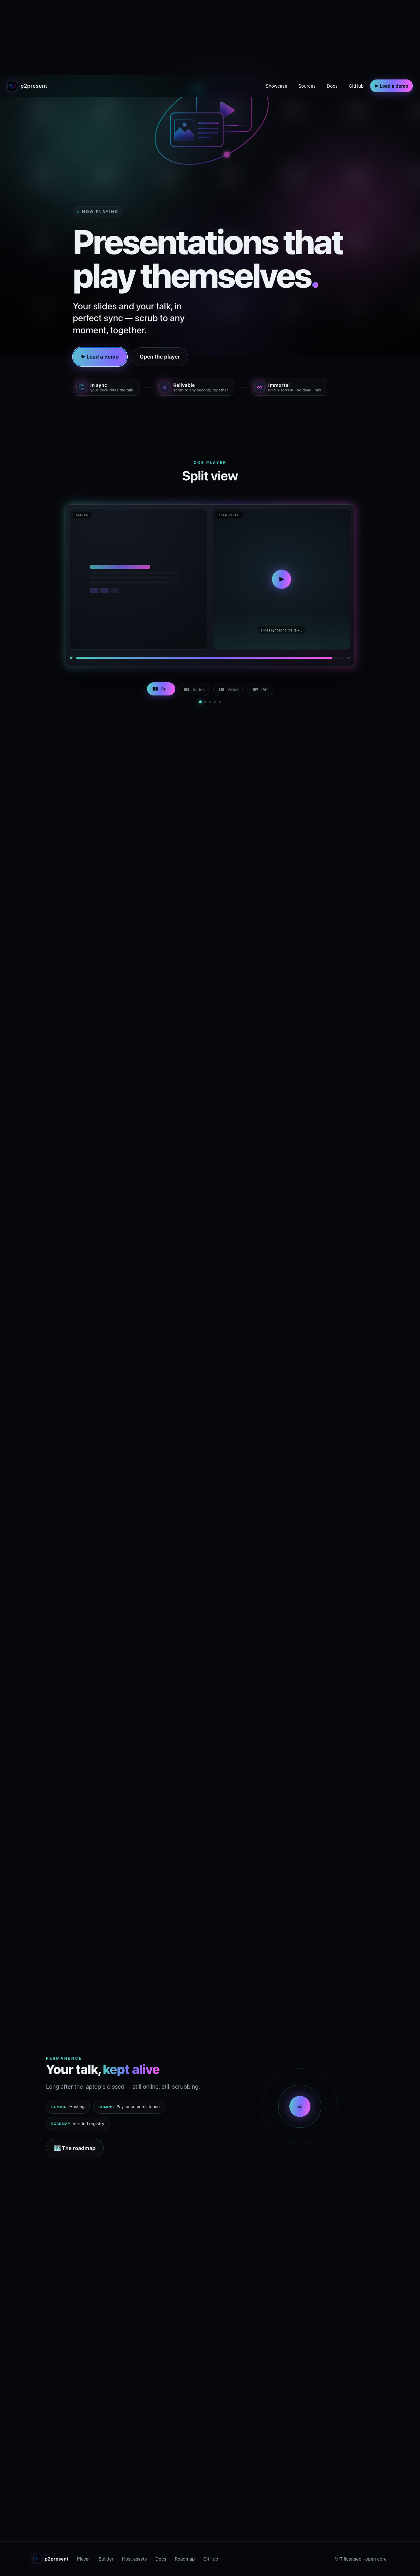
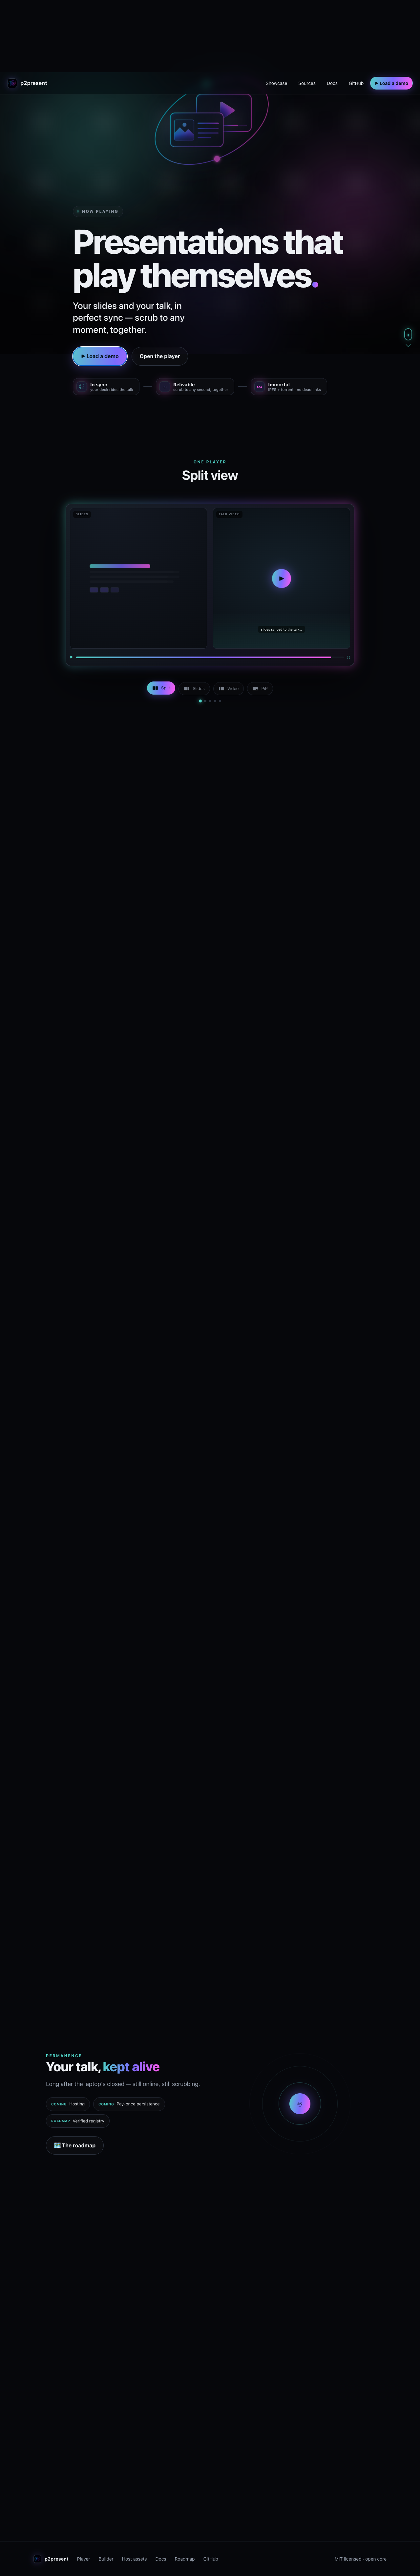
feat(home): persistent scroll cue, refined source flow + "host anywhere"
- Scroll cue stays pinned as a persistent hint until the reader is ~1 viewport
  from the bottom, then retires (was hiding after the first 80px).
- "Plays from any source": the player now shrinks much harder and the five
  source cards sit in a balanced arc clearly OUTSIDE it (both sides + below),
  drifting gently toward it as a clean comet of light streams down each wire —
  no more cards overlapping the player.
- "Fork it. Host it. Keep it." reworked to mean it: one built site fans out to
  any host — GitHub Pages, IPFS, Arweave, your own server — each lighting up on
  its own. Packets are thin streaks, not smeared blobs.

Claude-Session: https://claude.ai/code/session_01ESVaA3GnESeA53zvUDRn5D

diff --git a/docs/home.css b/docs/home.css
@@ -401,8 +401,8 @@ footer.site .brand .logo { width: 24px; height: 24px; border-radius: 7px; }
   opacity: 0; transition: opacity .35s var(--ease);
 }
 .showcase-sticky.sourcing .sources-field { opacity: calc(.5 + (.5 * var(--flow))); }
-/* shrink the player to make room for the incoming sources */
-.showcase-sticky.sourcing .morph { transform: translateY(calc(-10vh * var(--flow))) scale(calc(1 - (.24 * var(--flow)))); }
+/* shrink the player hard so the sources have clear room to flow into it */
+.showcase-sticky.sourcing .morph { transform: translateY(calc(-5vh * var(--flow))) scale(calc(1 - (.5 * var(--flow)))); }
 /* fade the layout legend out of the way at the source climax */
 .showcase-sticky.sourcing .morph-caps { opacity: calc(1 - (.8 * var(--flow))); transition: opacity .5s var(--ease); }
 
@@ -416,10 +416,11 @@ footer.site .brand .logo { width: 24px; height: 24px; border-radius: 7px; }
 /* dasharray "5 100" over pathLength=100 leaves a single short segment that the
    keyframe walks from the chip down to the player centre — one clean packet. */
 .sources-field .streams .pulses path {
-  stroke: url(#streamGrad); stroke-width: 1.5; stroke-linecap: round;
-  stroke-dasharray: 5 100; opacity: calc(.1 + (.9 * var(--flow)));
-  filter: drop-shadow(0 0 calc(2px + (7px * var(--flow))) rgba(124,107,255,.85));
-  animation: streamPulse calc(2.4s - (1s * var(--flow))) linear infinite;
+  /* a short bright streak = a clean comet of light gliding along the wire */
+  stroke: url(#streamGrad); stroke-width: 1.6; stroke-linecap: round;
+  stroke-dasharray: 2.5 100; opacity: calc(.15 + (.85 * var(--flow)));
+  filter: drop-shadow(0 0 calc(3px + (6px * var(--flow))) rgba(124,107,255,.9));
+  animation: streamPulse calc(2.6s - (1s * var(--flow))) linear infinite;
 }
 .sources-field .streams .pulses path:nth-child(2){ animation-delay: -.55s; }
 .sources-field .streams .pulses path:nth-child(3){ animation-delay: -1.05s; }
@@ -431,9 +432,13 @@ footer.site .brand .logo { width: 24px; height: 24px; border-radius: 7px; }
    explanation, then (as --flow grows with scroll) the explanation collapses and
    the card rises up its wire toward the player: "every source streams in". */
 .src-node {
-  position: absolute; left: var(--x); top: var(--y);
-  /* rise toward the player's lower edge + tighten as the flow intensifies */
-  transform: translate(-50%, calc(-50% - (13vh * var(--flow)))) scale(calc(1 - (.12 * var(--flow))));
+  /* sit clearly OUTSIDE the player at the start (--x/--y), then drift toward a
+     dock point at the player's perimeter (--dx/--dy) as the flow intensifies —
+     "every source streams into the box" — never overlapping its centre. */
+  position: absolute;
+  left: calc(var(--x) + (var(--dx) - var(--x)) * var(--flow));
+  top: calc(var(--y) + (var(--dy) - var(--y)) * var(--flow));
+  transform: translate(-50%, -50%) scale(calc(1 - (.06 * var(--flow))));
   display: inline-flex; align-items: center; gap: 10px;
   padding: 8px 14px 8px 9px; border-radius: 14px;
   background: linear-gradient(150deg, rgba(20,24,32,.94), rgba(9,11,16,.94));
@@ -530,36 +535,38 @@ section { position: relative; padding: clamp(72px, 12vh, 128px) 0; }
 .os .pills { display: flex; gap: 10px; flex-wrap: wrap; margin-top: 22px; }
 .os .pills a { padding: 10px 17px; border: 1px solid var(--line); border-radius: 999px; color: var(--fg); font-size: 14px; transition: border-color .2s, color .2s; }
 .os .pills a:hover { border-color: var(--cyan); color: var(--cyan); text-decoration: none; }
-/* "fork it, host it, keep it": one repo → independent self-hosted copies.
-   A packet runs out each branch from the repo to a copy; the copies then pulse
-   on their own — alive without the origin (the "no lock-in / keep it" point). */
-.fork-viz { position: relative; min-height: 290px; }
+/* "host it anywhere": one static build → any host. A packet runs out each branch
+   from your site to a target (GitHub Pages / IPFS / Arweave / your own box), which
+   then glows on its own — same files, no lock-in. */
+.fork-viz { position: relative; min-height: 300px; }
 .fork-wires { position: absolute; inset: 0; width: 100%; height: 100%; overflow: visible; }
 .fork-wires path { fill: none; }
 .fork-wires .fwire path { stroke: url(#streamGrad); stroke-width: .5; opacity: .3; }
 .fork-wires .fpulse path {
-  stroke: url(#streamGrad); stroke-width: 1.4; stroke-linecap: round;
-  stroke-dasharray: 6 100; filter: drop-shadow(0 0 5px rgba(124,107,255,.8));
-  animation: forkPulse 2.6s linear infinite;
+  stroke: url(#streamGrad); stroke-width: 1.6; stroke-linecap: round;
+  stroke-dasharray: 2.5 100; filter: drop-shadow(0 0 5px rgba(124,107,255,.85));
+  animation: forkPulse 2.8s linear infinite;
 }
-.fork-wires .fpulse path:nth-child(2) { animation-delay: -.8s; }
-.fork-wires .fpulse path:nth-child(3) { animation-delay: -1.6s; }
-@keyframes forkPulse { from { stroke-dashoffset: 0; } to { stroke-dashoffset: -106; } }
+.fork-wires .fpulse path:nth-child(2) { animation-delay: -.7s; }
+.fork-wires .fpulse path:nth-child(3) { animation-delay: -1.4s; }
+.fork-wires .fpulse path:nth-child(4) { animation-delay: -2.1s; }
+@keyframes forkPulse { from { stroke-dashoffset: 0; } to { stroke-dashoffset: -100.4; } }
 
-/* the source repo */
+/* your built site (the source of every deploy) */
 .fork-viz .origin {
-  position: absolute; left: 9%; top: 50%; transform: translate(-50%, -50%);
-  display: flex; flex-direction: column; align-items: center; gap: 7px; z-index: 3;
+  position: absolute; left: 11%; top: 50%; transform: translate(-50%, -50%);
+  display: flex; flex-direction: column; align-items: center; gap: 8px; z-index: 3;
 }
 .fork-viz .origin .g {
-  display: grid; place-items: center; width: 58px; height: 58px; border-radius: 50%;
-  font-size: 26px; color: #04121a; background: var(--neon);
+  display: grid; place-items: center; width: 60px; height: 60px; border-radius: 50%;
+  color: #04121a; background: var(--neon);
   box-shadow: 0 0 40px rgba(124,107,255,.6); animation: puck 2.8s ease-in-out infinite;
 }
+.fork-viz .origin .g svg { width: 30px; height: 30px; fill: none; stroke: #04121a; stroke-width: 1.8; stroke-linecap: round; stroke-linejoin: round; }
 .fork-viz .origin b, .fork-viz .fork b {
-  font-size: 11px; font-weight: 700; letter-spacing: .05em; text-transform: uppercase; color: var(--muted);
+  font-size: 11px; font-weight: 700; letter-spacing: .05em; text-transform: uppercase; color: var(--muted); white-space: nowrap;
 }
-/* the independent self-hosted copies */
+/* the hosting targets — each lights up on its own */
 .fork-viz .fork {
   position: absolute; left: var(--fx); top: var(--fy); transform: translate(-50%, -50%);
   display: flex; flex-direction: column; align-items: center; gap: 7px; z-index: 2;
@@ -570,8 +577,9 @@ section { position: relative; padding: clamp(72px, 12vh, 128px) 0; }
   border: 1px solid rgba(255,255,255,.16);
   animation: forkAlive 3.4s ease-in-out infinite;
 }
-.fork-viz .fork:nth-of-type(3) .g { animation-delay: -1.1s; }
-.fork-viz .fork:nth-of-type(4) .g { animation-delay: -2.2s; }
+.fork-viz .fork:nth-of-type(3) .g { animation-delay: -.9s; }
+.fork-viz .fork:nth-of-type(4) .g { animation-delay: -1.8s; }
+.fork-viz .fork:nth-of-type(5) .g { animation-delay: -2.7s; }
 /* each copy keeps glowing on its own — outlives the origin */
 @keyframes forkAlive {
   0%,100% { box-shadow: 0 0 16px rgba(79,209,197,.3); transform: translateY(0); }
@@ -658,18 +666,18 @@ footer.site .spacer { flex: 1; }
   .beats .flow { display: none; }
   .beat { width: 100%; padding: 10px 14px 10px 11px; }
   .scroll-cue { right: 14px; bottom: 14px; }
-  /* tighter constellation so it fits the phone stage */
-  .showcase-sticky.sourcing .morph { transform: translateY(calc(-13vh * var(--flow))) scale(calc(1 - (.34 * var(--flow)))); }
+  /* tighter constellation so it fits the phone stage; player shrinks hard */
+  .showcase-sticky.sourcing .morph { transform: translateY(calc(-9vh * var(--flow))) scale(calc(1 - (.46 * var(--flow)))); }
   .src-node { gap: 7px; padding: 5px 9px 5px 6px; }
   .src-node .orb { width: 26px; height: 26px; font-size: 12px; border-radius: 8px; }
   .src-meta b { font-size: 10.5px; }
   .src-meta i { display: none; }   /* no room for the explanation on a phone */
-  /* pull the bottom row in so the five cards don't clip the phone edges */
-  .src-node[data-src="youtube"] { --x: 13% !important; }
-  .src-node[data-src="mp4"]     { --x: 32% !important; }
-  .src-node[data-src="ipfs"]    { --x: 50% !important; }
-  .src-node[data-src="torrent"] { --x: 68% !important; }
-  .src-node[data-src="arweave"] { --x: 87% !important; }
+  /* tighten the arc so the five cards don't clip the phone edges */
+  .src-node[data-src="youtube"] { --x: 13% !important; --dx: 30% !important; }
+  .src-node[data-src="mp4"]     { --x: 17% !important; --dx: 33% !important; }
+  .src-node[data-src="ipfs"]    { --x: 50% !important; --dx: 50% !important; }
+  .src-node[data-src="torrent"] { --x: 83% !important; --dx: 67% !important; }
+  .src-node[data-src="arweave"] { --x: 87% !important; --dx: 70% !important; }
   /* shorter pinned track on phones — less scrolling through all five phases */
   #showcase { height: 440vh; }
 }

diff --git a/docs/index.html b/docs/index.html
@@ -163,28 +163,28 @@
                   <stop offset="0" stop-color="#4fd1c5"/><stop offset=".5" stop-color="#7c6bff"/><stop offset="1" stop-color="#ff5cf0"/>
                 </linearGradient>
               </defs>
-              <!-- faint base wires from each card up to the player centre -->
+              <!-- faint base wires from each card to the player centre -->
               <g class="wires">
-                <path d="M10,84 C18,72 36,58 50,54"  pathLength="100"/>
-                <path d="M30,86 C34,76 44,60 50,54"  pathLength="100"/>
-                <path d="M50,90 C50,76 50,62 50,55"  pathLength="100"/>
-                <path d="M70,86 C66,76 56,60 50,54"  pathLength="100"/>
-                <path d="M90,84 C82,72 64,58 50,54"  pathLength="100"/>
+                <path d="M7,40 C24,42 38,44 50,44"  pathLength="100"/>
+                <path d="M10,74 C26,64 42,50 50,45" pathLength="100"/>
+                <path d="M50,91 C50,74 50,56 50,47" pathLength="100"/>
+                <path d="M90,74 C74,64 58,50 50,45" pathLength="100"/>
+                <path d="M93,40 C76,42 62,44 50,44" pathLength="100"/>
               </g>
-              <!-- a single light packet travelling each wire up into the player -->
+              <!-- a clean light packet travelling each wire into the player -->
               <g class="pulses">
-                <path d="M10,84 C18,72 36,58 50,54"  pathLength="100"/>
-                <path d="M30,86 C34,76 44,60 50,54"  pathLength="100"/>
-                <path d="M50,90 C50,76 50,62 50,55"  pathLength="100"/>
-                <path d="M70,86 C66,76 56,60 50,54"  pathLength="100"/>
-                <path d="M90,84 C82,72 64,58 50,54"  pathLength="100"/>
+                <path d="M7,40 C24,42 38,44 50,44"  pathLength="100"/>
+                <path d="M10,74 C26,64 42,50 50,45" pathLength="100"/>
+                <path d="M50,91 C50,74 50,56 50,47" pathLength="100"/>
+                <path d="M90,74 C74,64 58,50 50,45" pathLength="100"/>
+                <path d="M93,40 C76,42 62,44 50,44" pathLength="100"/>
               </g>
             </svg>
-            <span class="src-node" data-src="youtube"  style="--x:10%;--y:84%"><span class="orb">▶</span><span class="src-meta"><b>YouTube</b><i>hosted video link</i></span></span>
-            <span class="src-node" data-src="mp4"      style="--x:30%;--y:86%"><span class="orb">🎞️</span><span class="src-meta"><b>MP4 / HTTP</b><i>any direct file URL</i></span></span>
-            <span class="src-node" data-src="ipfs"     style="--x:50%;--y:90%"><span class="orb">🪐</span><span class="src-meta"><b>IPFS</b><i>content-addressed</i></span></span>
-            <span class="src-node" data-src="torrent"  style="--x:70%;--y:86%"><span class="orb">🌱</span><span class="src-meta"><b>Torrent</b><i>magnet · WebTorrent</i></span></span>
-            <span class="src-node" data-src="arweave"  style="--x:90%;--y:84%"><span class="orb">🜨</span><span class="src-meta"><b>Arweave</b><i>permanent storage</i></span></span>
+            <span class="src-node" data-src="youtube"  style="--x:7%;--y:40%;--dx:12%;--dy:41%"><span class="orb">▶</span><span class="src-meta"><b>YouTube</b><i>hosted video link</i></span></span>
+            <span class="src-node" data-src="mp4"      style="--x:10%;--y:74%;--dx:16%;--dy:67%"><span class="orb">🎞️</span><span class="src-meta"><b>MP4 / HTTP</b><i>any direct file URL</i></span></span>
+            <span class="src-node" data-src="ipfs"     style="--x:50%;--y:91%;--dx:50%;--dy:80%"><span class="orb">🪐</span><span class="src-meta"><b>IPFS</b><i>content-addressed</i></span></span>
+            <span class="src-node" data-src="torrent"  style="--x:90%;--y:74%;--dx:84%;--dy:67%"><span class="orb">🌱</span><span class="src-meta"><b>Torrent</b><i>magnet · WebTorrent</i></span></span>
+            <span class="src-node" data-src="arweave"  style="--x:93%;--y:40%;--dx:88%;--dy:41%"><span class="orb">🜨</span><span class="src-meta"><b>Arweave</b><i>permanent storage</i></span></span>
           </div>
         </div>
 
@@ -248,26 +248,32 @@
             <a href="https://github.com/ibeezhan/p2present/blob/main/ROADMAP.md" rel="noopener">🗺 Roadmap</a>
           </div>
         </div>
-        <!-- "fork it, host it, keep it": one source repo forks into independent
-             self-hosted copies. A packet runs out each branch from the repo to a
-             copy; the copies then glow on their own — alive without the origin. -->
+        <!-- "host it anywhere": one static build deploys to any host. A packet runs
+             out each branch from your site to a target, which then glows on its own —
+             GitHub Pages, IPFS, Arweave, your own box: same files, no lock-in. -->
         <div class="fork-viz reveal" data-delay="1" aria-hidden="true">
           <svg class="fork-wires" viewBox="0 0 100 100" preserveAspectRatio="none">
             <g class="fwire">
-              <path d="M9,50 L83,20" pathLength="100"/>
-              <path d="M9,50 L89,50" pathLength="100"/>
-              <path d="M9,50 L83,80" pathLength="100"/>
+              <path d="M11,50 L80,14" pathLength="100"/>
+              <path d="M11,50 L88,38" pathLength="100"/>
+              <path d="M11,50 L88,62" pathLength="100"/>
+              <path d="M11,50 L80,86" pathLength="100"/>
             </g>
             <g class="fpulse">
-              <path d="M9,50 L83,20" pathLength="100"/>
-              <path d="M9,50 L89,50" pathLength="100"/>
-              <path d="M9,50 L83,80" pathLength="100"/>
+              <path d="M11,50 L80,14" pathLength="100"/>
+              <path d="M11,50 L88,38" pathLength="100"/>
+              <path d="M11,50 L88,62" pathLength="100"/>
+              <path d="M11,50 L80,86" pathLength="100"/>
             </g>
           </svg>
-          <span class="origin"><span class="g">⑂</span><b>repo</b></span>
-          <span class="fork" style="--fx:83%;--fy:20%"><span class="g">🌐</span><b>your copy</b></span>
-          <span class="fork" style="--fx:89%;--fy:50%"><span class="g">🌐</span><b>your copy</b></span>
-          <span class="fork" style="--fx:83%;--fy:80%"><span class="g">🌐</span><b>your copy</b></span>
+          <span class="origin">
+            <span class="g"><svg viewBox="0 0 24 24" aria-hidden="true"><rect x="3.5" y="5" width="17" height="14" rx="2"/><path d="M3.5 9h17M7 7h.01M9.5 7h.01"/></svg></span>
+            <b>your site</b>
+          </span>
+          <span class="fork" style="--fx:80%;--fy:14%"><span class="g">🐙</span><b>GitHub Pages</b></span>
+          <span class="fork" style="--fx:88%;--fy:38%"><span class="g">🪐</span><b>IPFS</b></span>
+          <span class="fork" style="--fx:88%;--fy:62%"><span class="g">🜨</span><b>Arweave</b></span>
+          <span class="fork" style="--fx:80%;--fy:86%"><span class="g">🖥️</span><b>your server</b></span>
         </div>
       </div>
     </section>

diff --git a/docs/home.js b/docs/home.js
@@ -95,7 +95,13 @@ function fadeHeroChrome() {
     heroLogo.style.opacity = f.toFixed(3);
     heroLogo.style.transform = `translateY(${((1 - f) * -28).toFixed(1)}px) scale(${(0.9 + 0.1 * f).toFixed(3)})`;
   }
-  if (scrollCue) scrollCue.classList.toggle('is-gone', y > 80);
+  // Keep the scroll cue on-screen as a persistent hint until the reader is almost
+  // at the end of the page (within ~1 viewport of the bottom), then retire it.
+  if (scrollCue) {
+    const doc = document.documentElement;
+    const nearBottom = (y + window.innerHeight) >= (doc.scrollHeight - window.innerHeight * 1.1);
+    scrollCue.classList.toggle('is-gone', nearBottom);
+  }
 }
 
 function onScroll() {